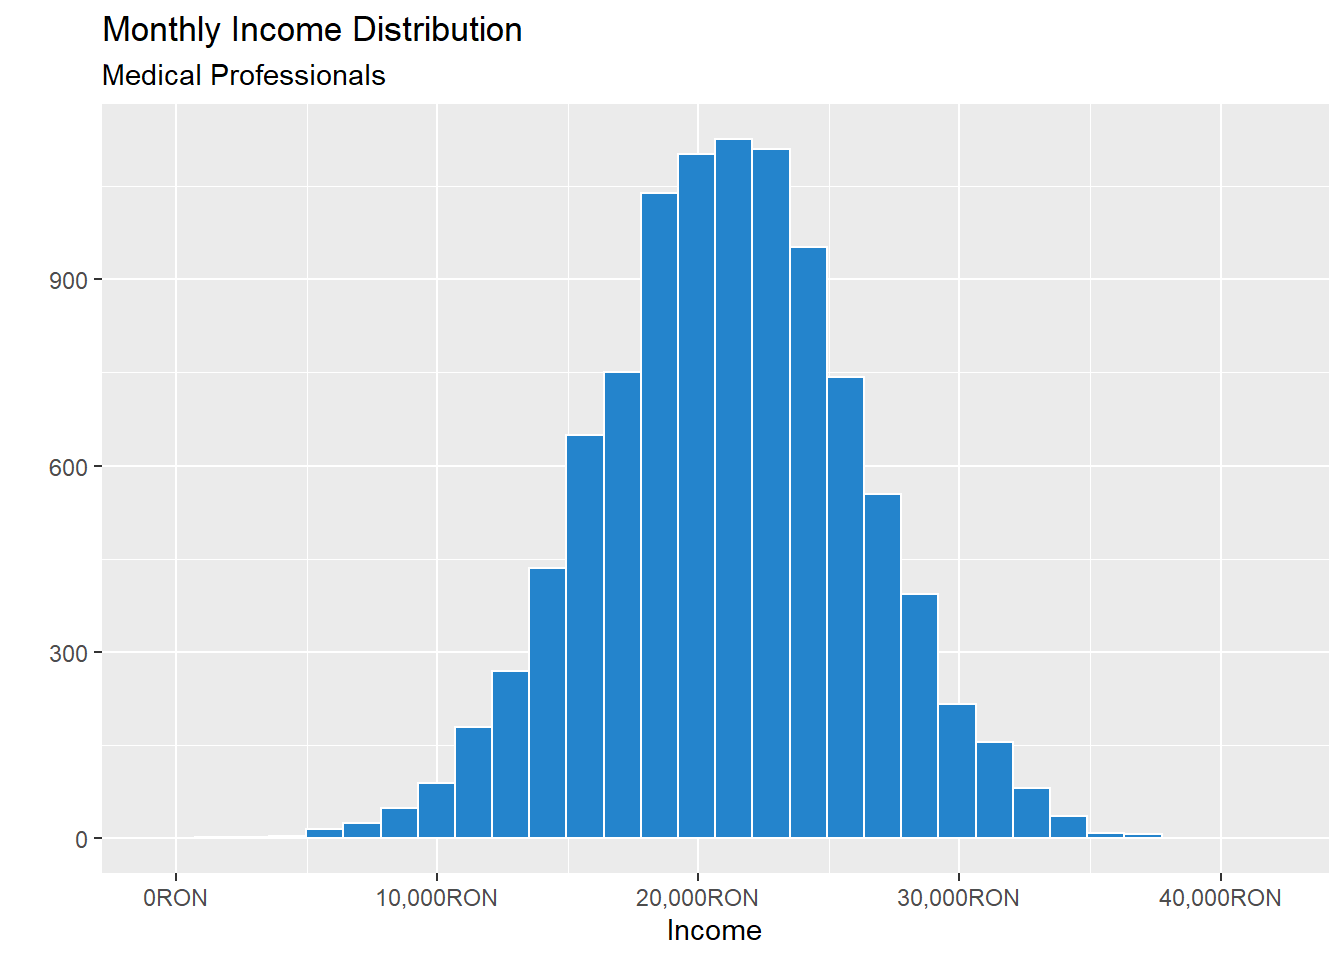
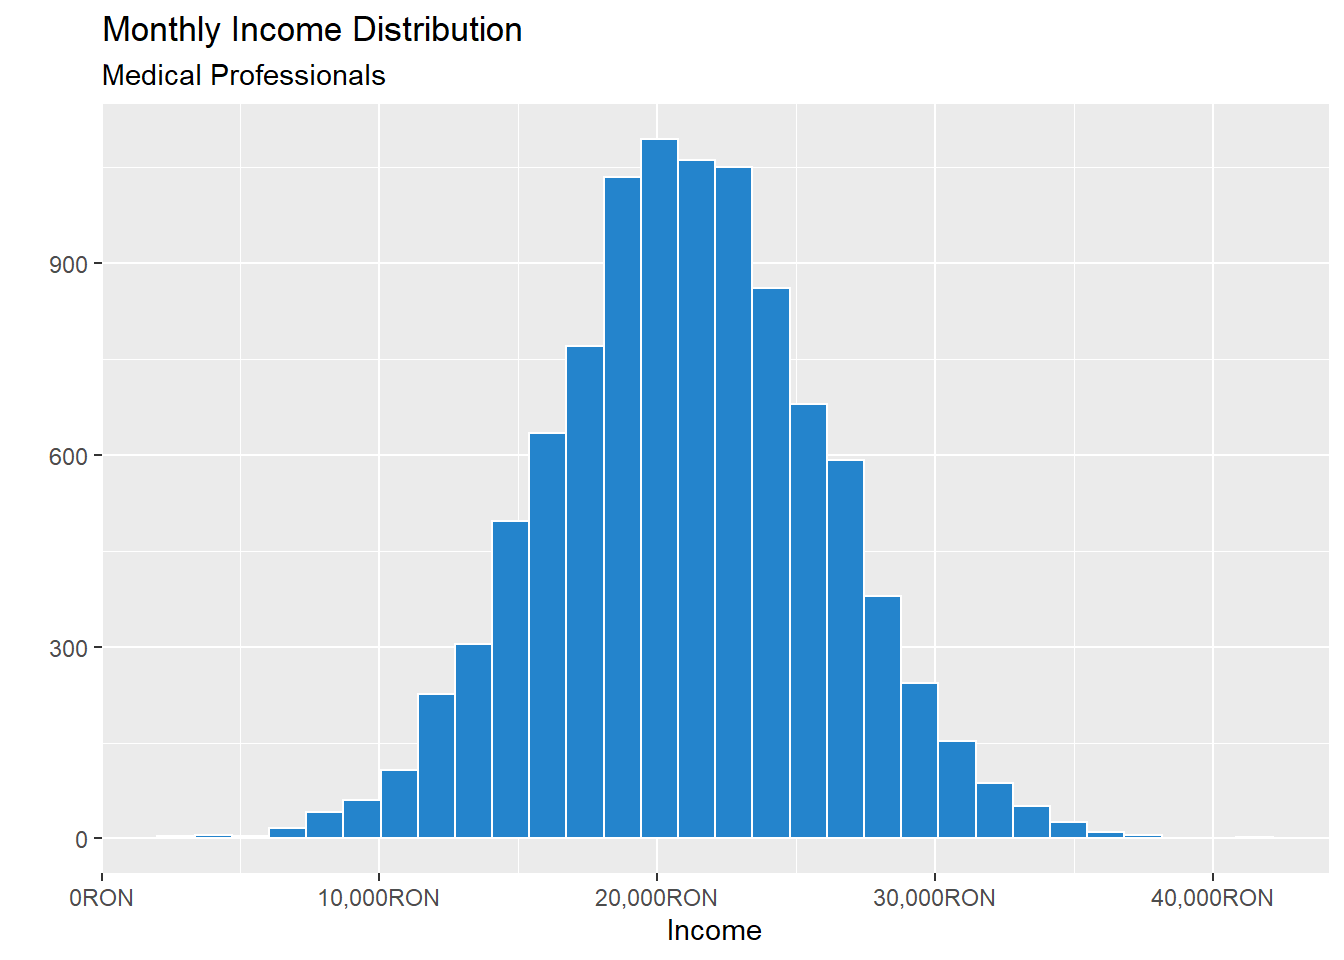
Intermediary version before final review (spellcheck)

diff --git a/content/post/2021-03-18-decision-making-with-uncertainty/index.en.html b/content/post/2021-03-18-decision-making-with-uncertainty/index.en.html
@@ -13,10 +13,15 @@ code_folding: show
 <script src="{{< blogdown/postref >}}index.en_files/header-attrs/header-attrs.js"></script>
 
 
-<p><strong>Insert Lead paragraph here.</strong></p>
+<blockquote>
+<p>We sail within a vast sphere, ever drifting in uncertainty, driven from end to end.</p>
+<footer>
+— Blaise Pascal
+</footer>
+</blockquote>
 <hr />
 <p>People engage in decision making on a daily basis and although most of our decisions seem to derive from logical arguments, the truth is that exactly the opposite is true. Most of the decisions we make are due to <a href="https://en.wikipedia.org/wiki/List_of_cognitive_biases">biases</a> and <a href="https://en.wikipedia.org/wiki/Heuristic">heuristics</a> our minds have developed to respond to the environment around them faster.</p>
-<p>These tendencies have been first described and studied by <a href="https://en.wikipedia.org/wiki/Amos_Tversky">Amos Tversky</a> and <a href="https://scholar.princeton.edu/kahneman/home">Daniel Kahneman</a> and have been explained in Kahneman’s excellent book: <strong>Thinking fast and slow</strong>. I highly recommend the book since it is an excellent guide in where our minds tend to be error prone and mislead us. I will explain in brief however that our minds operate as two separate system called by Kahneman and Tversky <em>system 1</em> and <em>system 2</em>.</p>
+<p>These tendencies have been first described and studied by <a href="https://en.wikipedia.org/wiki/Amos_Tversky">Amos Tversky</a> and <a href="https://scholar.princeton.edu/kahneman/home">Daniel Kahneman</a> and have been explained in Kahneman’s excellent book: <em>Thinking fast and slow</em>. I highly recommend the book since it is an excellent guide in where our minds tend to be error prone and mislead us. I will explain in brief however that our minds operate as two separate system called by Kahneman and Tversky <em>system 1</em> and <em>system 2</em>.</p>
 <p><em>System 1</em> is the default system of the mind, the one used for everyday activities. These activities include walking, breathing, detecting danger and avoiding it, eating, doing routine activities, and all activities that do not involve heavy cognitive effort. <em>System 1</em> is emotional, automatic, fast and uses no extra energy from our energy hungry brains.</p>
 <p><em>System 2</em> is the exact opposite of <em>System 1</em>. It is rational, quite slow, and requires a large amount of energy and effort from our part. <em>System 2</em> allows you to analyse in detail every situation, however this is not always ideal. If a car would come speeding towards you, <em>System 2</em> would analyse the colour of the car, the brand and maybe the speed and approach vector, which is a nice thought exercise but might get hit by the car before <em>System 2</em> would act. <em>System 1</em> will not bother with all those details, it will just register car coming towards me with great speed, I need to move out of the way.</p>
 <p>The problem when making decisions is that there are situations moderated or mediated by the aforementioned biases and heuristics in which <em>System 1</em> might make the decision and our minds might think it is actually <em>System 2</em>. Otherwise said, we might make decisions for subjective reasons and have a high degree of confidence in then believing they are objective.</p>
@@ -65,7 +70,7 @@ code_folding: show
 <li>Amount of beer drunk weekly</li>
 </ol>
 <p>I would go for education level since it is highly unlikely someone has spent 50 years in education. And even if it is so, the impact to 10,000 will be small. The same goes for amount of beer drunk weekly. If there is someone who drinks thousands of beer weekly you might be in trouble, but not as much as they are. I think you would be safe with that bet.</p>
-<p>But what about the amount of cars? Well, here it can get a bit tricky. Most people have one or two cars. But what happens if in the crowd is the Sultan of Brunei with a car collection of 7000 cars? Considering the low age of the crowd, it is possible that he owns more cars that the whole crowd put together. This would not be a problem if you can include him in the sample however a sample of 100 people out of 10,000 give you a chance of 1% to include him in it. This means that most 99 out of 100 times your sample will underestimate the average number of cars owned by the crowd.</p>
+<p>But what about the amount of cars? Well, here it can get a bit tricky. Most people have one or two cars. But what happens if in the crowd is the Sultan of Brunei with a car collection of 7000 cars? Considering the low age of the crowd, it is possible that he owns more cars that the whole crowd put together. This would not be a problem if you can include him in the sample however a sample of 100 people out of 10,000 give you a chance of 1% to include him in it. This means that 99 times out of 100 your sample will underestimate the average number of cars owned by the crowd.</p>
 <p>This is why it is important to try and figure out what kind of distribution has the population to which you are trying to make a decision and adjust your decision making accordingly. In the following section I will describe a problem which would be interesting to solve, what career would be best if I were to choose again, and see how we can take advantage of these distributions.</p>
 </div>
 </div>
@@ -86,7 +91,7 @@ code_folding: show
 <p>As an example, if I were to choose to study medicine, I might have an idea of what kind of doctor I want to be, however that does not guarantee that I will end up in that particular field. I might not like the field once I go into the nifty gritty of it, or I might like another field more once I find out more about it. Since I cannot control that I will try to simulate multiple outcomes and see overall which career is the best taking into account its highs and lows.</p>
 <p><em>E.g.:</em> If I were to choose between being a janitor who just won the lottery and being a doctor, I would chose to be the janitor. However, if I were to chose between the two and live 10,000 I would choose the doctor because the other 9,999 time it is the better outcome.</p>
 <p>How do we do this?</p>
-<p>We will gather data on each of the three career paths we have chosen and we will analyse it to try and figure out which are the main characteristics of the three populations, doctors, IT workers, and poker players. We will try to find out what is the average salary, how much does it usually vary from there, and if there is a tendency of most salaries to e over or under that average. Once we have all this information, we will extract a sample of that data of 10,000 randomly chosen salaries.</p>
+<p>We will gather data on each of the three career paths we have chosen and we will analyse it to try and figure out which are the main characteristics of the three populations, doctors, IT workers, and poker players. We will try to find out what is the average salary, how much does it usually vary from there, and if there is a tendency of most salaries to be over or under that average. Once we have all this information, we will extract a sample of that data of 10,000 randomly chosen salaries.</p>
 <p>The salary information will be from the Romanian job market since I am based in Romania.</p>
 <div id="coding-examples" class="section level2">
 <h2>Coding examples</h2>
@@ -101,11 +106,10 @@ it_sal_med_high &lt;- 225000 # Median Salary for Managers and Directors in IT
 it_sal_med_low  &lt;- 92809  # Median Salary for the everyone else working in IT </code></pre>
 <p>The salaries are encoded in here not later when we are analysing the careers themselves because it is a good practice to keep the variables in one place and the same goes for custom function. I will add some in here as well. This functions just store some lines of code that we will need to repeat over and over again and it is good coding practice to store such lines of code in one function so you can avoid having too many lines of code. Also, if we want to change something at a later date, we just need to adjust everything in one place.</p>
 <pre class="r"><code># Graphical function to avoid writing the same lines over and over
-histogram &lt;- function(.df){
+histogram &lt;- function(.df, .var = Income){
   
   .df %&gt;% 
-    tibble() %&gt;% 
-    ggplot(aes(.)) +
+    ggplot(aes({{.var}})) +
     geom_histogram(colour = &quot;white&quot;, fill = &quot;#2484cc&quot;) +
     labs(x = &quot;Income&quot;, y = &quot;&quot;) +
     scale_x_continuous(labels = label_dollar(prefix = &quot;€&quot;))
@@ -142,7 +146,7 @@ ron_format &lt;- function(.x){
 <p>With this said, let’s create our sample and take a look at it.</p>
 <pre class="r"><code>dr_sal_dist &lt;- rnorm(10000, dr_sal_mean, sd = 5000)
 
-dr_sal_dist %&gt;% 
+tibble(Income = dr_sal_dist) %&gt;% # transforms the list in a table for the graph
     histogram() +
     labs(title = &quot;Monthly Income Distribution&quot;,
          subtitle = &quot;Medical Professionals&quot;) + 
@@ -157,7 +161,7 @@ dr_sal_dist %&gt;%
 </ol>
 <p>The Romanian government imposes taxes on the on the employee as follows:</p>
 <ul>
-<li>Retirement Tax: 25%</li>
+<li>Social Security: 25%</li>
 <li>Health Insurance: 10%</li>
 <li>Income tax on the remainder of 65% of the Gross salary: 10%</li>
 </ul>
@@ -193,7 +197,7 @@ dr_sal_final &lt;- dr_sal_final * admittance_rate
 
 # Just to be sure, I would like to see the rate
 print(sum(admittance_rate) / 10000)</code></pre>
-<pre><code>#&gt; [1] 0.4525</code></pre>
+<pre><code>#&gt; [1] 0.4552</code></pre>
 <p>I will take a look at the numbers in the analysis part, this is just the preparation of the data. Now, let’s see if we can estimate how much does an IT professional earn.</p>
 </div>
 <div id="the-it-crowd" class="section level2">
@@ -218,9 +222,9 @@ it_sal_dist &lt;- c(it_sal_low, it_sal_high)
 
 # The average of my salary distribution should be similar to that on the website
 mean(it_sal_dist)</code></pre>
-<pre><code>#&gt; [1] 112842.7</code></pre>
+<pre><code>#&gt; [1] 112325.3</code></pre>
 <p>From what I can see the distribution I have created has the same average salary as the population on the website so I can safely assume that the distribution I have created more or less resembles the population I want to recreate. The distribution looks like this:</p>
-<pre class="r"><code>it_sal_dist %&gt;% 
+<pre class="r"><code>tibble(Income = it_sal_dist) %&gt;% 
   histogram() +
   labs(title = &quot;Yearly Income Distribution&quot;,
        subtitle = &quot;IT Workers&quot;) + 
@@ -290,12 +294,11 @@ it_sal_dist_net_eur &lt;- it_sal_dist_net / 5</code></pre>
 elt_player &lt;- rnorm(1000, 4000, 1000)
 
 poker_players &lt;- c(avg_player, elt_player)</code></pre>
-<pre class="r"><code>poker_players %&gt;% 
+<pre class="r"><code>tibble(Income = poker_players) %&gt;% 
   histogram() +
   labs(title = &quot;Monthly Income Distribution&quot;,
        subtitle = &quot;Professional Poker Players&quot;)</code></pre>
-<pre><code>#&gt; `stat_bin()` using `bins = 30`. Pick better value with `binwidth`.</code></pre>
-<p><img src="{{< blogdown/postref >}}index.en_files/figure-html/unnamed-chunk-3-1.png" width="100%" /></p>
+<p><img src="{{< blogdown/postref >}}index.en_files/figure-html/poker_player_distribution-1.png" width="100%" /></p>
 <p>The distribution seems OK from what was described in my source. Now, for the final touch, I just need two more steps:</p>
 <ol style="list-style-type: decimal">
 <li>Transform the data in lifelong earnings</li>
@@ -316,11 +319,177 @@ poker_players_final &lt;- poker_players * success_prob
 
 # Just to be sure, I would like to see the rate
 print(sum(success_prob) / 10000)</code></pre>
-<pre><code>#&gt; [1] 0.098</code></pre>
-<p>9.80% is exactly what it is to be expected.</p>
+<pre><code>#&gt; [1] 0.0973</code></pre>
+<p>Looks good, 9.73% is exactly what it is to be expected.</p>
 <p>All I need right now is to analyse the data and see which career path is better for me.</p>
 </div>
 </div>
 <div id="data-analysis" class="section level1">
 <h1>Data Analysis</h1>
+<p>The first part of any data analysis is tidying the data up. At the moment I have three separate lists and they are not very useful so I will merge them in one table. The easiest way to do this is to create three separate data frames and combine them in one. The code below will do this and them I can start analysing the data.</p>
+<pre class="r"><code>df_dr &lt;- tibble(Career = &quot;Doctor&quot;,
+                Income = dr_sal_final)
+
+df_it &lt;- tibble(Career = &quot;IT Worker&quot;,
+                Income = it_sal_dist_net_eur)
+
+df_pp &lt;- tibble(Career = &quot;Poker Player&quot;,
+                Income = poker_players_final)
+
+df &lt;- rbind(df_dr, df_it, df_pp)
+
+# it is always a good idea to eliminate from memory intermediary datasets
+rm(df_dr, df_it, df_pp)</code></pre>
+<p>Now that the data is in one place I can proceed with the data analysis.</p>
+<p>The first step for that is to check all the distributions and see if they look anything alike one another.</p>
+<pre class="r"><code>df %&gt;% 
+  histogram() +
+  facet_wrap(~ Career, ncol = 1) +
+  labs(title = &quot;Lifelong Income&quot;,
+       subtitle = &quot;ALL Careers&quot;)</code></pre>
+<pre><code>#&gt; `stat_bin()` using `bins = 30`. Pick better value with `binwidth`.</code></pre>
+<p><img src="{{< blogdown/postref >}}index.en_files/figure-html/unnamed-chunk-4-1.png" width="100%" />
+There seems to be quite a difference between the three.</p>
+<p>The IT workers seem to have more salaries around €500,000 as lifelong income, a bit smaller that the doctors’. However, they are the only ones that have a 100% success rate in actually being able to earn from this career.</p>
+<p>I can also see that the doctors, the ones who made it pass the culling, have quite a normally distributed salary range and from what I can see, which is a good thing as it shows that we can extract some conclusions from the data. It is very tempting to follow this career path as it can have high rewards although the initial admission rate makes me a bit cautious.</p>
+<p>The last group that I can see is the poker players. They do not seem to have any clustering, only some small ones around €750,000 and otherwise are quite equally distributed. It’s hard to say when they are as few as they are to begin with. Let’s check them without the 90% that did not make it.</p>
+<pre class="r"><code>df %&gt;% 
+  filter(Income != 0, Career == &quot;Poker Player&quot;) %&gt;% 
+  histogram() +
+  labs(title = &quot;Lifelong Income&quot;,
+       subtitle = &quot;Poker Players&quot;)</code></pre>
+<p><img src="{{< blogdown/postref >}}index.en_files/figure-html/poker_players_final_graph-1.png" width="100%" /></p>
+<p>It is quite clear from the data that this job is quite well paid, most of the ones that made it as a professional player earn around €750K over their professional careers, so that makes them 50% better paid than most IT professionals, and the whales have it better than the doctors, over €3M. The problem with this is even more obvious then it is for the doctors, out of 10,000 only about 10% make it up to here. In my IT sample I have 1586 people who earn over €750K which is more than all the poker players that made it as a professional.</p>
+<p>Now, before I dive too deep in these type of discussions I must remember my basic premise, which is the career path that give me the highest income across 10,000 lives and is the least exposed to luck in getting there. With that said I would like to check the numbers.</p>
+<pre class="r"><code># The data as it is now is not useful, I will rearrange it a bit to be better summarised
+# This will help later on as well so I will store it in a separate data frame
+df_wide &lt;- df %&gt;% 
+  group_by(Career) %&gt;% 
+  mutate(ID = row_number()) %&gt;% 
+  ungroup() %&gt;% 
+  pivot_wider(names_from = Career, values_from = Income) %&gt;% 
+  select(-ID) 
+
+# And a summary of the data
+df_wide %&gt;% 
+  summary() %&gt;%   
+  kable(format = &quot;html&quot;)</code></pre>
+<table>
+<thead>
+<tr>
+<th style="text-align:left;">
+</th>
+<th style="text-align:left;">
+Doctor
+</th>
+<th style="text-align:left;">
+IT Worker
+</th>
+<th style="text-align:left;">
+Poker Player
+</th>
+</tr>
+</thead>
+<tbody>
+<tr>
+<td style="text-align:left;">
+</td>
+<td style="text-align:left;">
+Min. : 0
+</td>
+<td style="text-align:left;">
+Min. : -46923
+</td>
+<td style="text-align:left;">
+Min. : 0
+</td>
+</tr>
+<tr>
+<td style="text-align:left;">
+</td>
+<td style="text-align:left;">
+1st Qu.: 0
+</td>
+<td style="text-align:left;">
+1st Qu.: 410301
+</td>
+<td style="text-align:left;">
+1st Qu.: 0
+</td>
+</tr>
+<tr>
+<td style="text-align:left;">
+</td>
+<td style="text-align:left;">
+Median : 0
+</td>
+<td style="text-align:left;">
+Median : 509921
+</td>
+<td style="text-align:left;">
+Median : 0
+</td>
+</tr>
+<tr>
+<td style="text-align:left;">
+</td>
+<td style="text-align:left;">
+Mean : 524341
+</td>
+<td style="text-align:left;">
+Mean : 584092
+</td>
+<td style="text-align:left;">
+Mean : 89926
+</td>
+</tr>
+<tr>
+<td style="text-align:left;">
+</td>
+<td style="text-align:left;">
+3rd Qu.:1112234
+</td>
+<td style="text-align:left;">
+3rd Qu.: 630953
+</td>
+<td style="text-align:left;">
+3rd Qu.: 0
+</td>
+</tr>
+<tr>
+<td style="text-align:left;">
+</td>
+<td style="text-align:left;">
+Max. :2276445
+</td>
+<td style="text-align:left;">
+Max. :1916375
+</td>
+<td style="text-align:left;">
+Max. :3763895
+</td>
+</tr>
+</tbody>
+</table>
+<p>So, this is plain as day, with a lifelong average of €584,092 the IT crew wins the contest. This is because although the individual salaries for the doctors tend to be higher that the ones for IT, quite a few people did not make it as a doctor and their earnings from this field, €0 in this case, move the average down to €524,341.</p>
+<p>It is interesting that the Poker players have the highest earners with €3,763,895 however the average income of €89,925.99 is not very appealing to me.</p>
+<p>The last thing I would like to test is that indeed there is a significant difference between these careers. It does not matter as much in this context since based on these data I would choose to follow a career in IT. Since it is the most accessible my consequences in choosing this career are not high. However, if the situation would have been less clear cut I might want to make sure that it matters if I choose one career over another.</p>
+<p>This can be done with an <a href="https://en.wikipedia.org/wiki/Analysis_of_variance#:~:text=Analysis%20of%20variance%20(ANOVA)%20is,by%20the%20statistician%20Ronald%20Fisher.">Analysis Of Variance (ANOVA)</a>. I’m not going to go into details about this, I will just mention that ANOVA is a way of comparing three or more groups and checking if the differences between them are significant or not. This is not exactly true but the subject is outside the scope of this article and this explanation is a useful way of remembering it.</p>
+<pre class="r"><code>anova_results &lt;- aov(`IT Worker` ~ `Doctor` + `Poker Player`, data = df_wide)
+
+summary(anova_results)</code></pre>
+<pre><code>#&gt;                  Df    Sum Sq   Mean Sq F value Pr(&gt;F)    
+#&gt; Doctor            1 3.529e+11 3.529e+11   4.241 0.0395 *  
+#&gt; `Poker Player`    1 8.052e+12 8.052e+12  96.768 &lt;2e-16 ***
+#&gt; Residuals      9997 8.319e+14 8.321e+10                   
+#&gt; ---
+#&gt; Signif. codes:  0 &#39;***&#39; 0.001 &#39;**&#39; 0.01 &#39;*&#39; 0.05 &#39;.&#39; 0.1 &#39; &#39; 1</code></pre>
+<p>So, this looks interesting. From what this shows me, there is a very significant difference between IT and poker player, which is to be expected. I can tell this by the Pr(&gt;F) value, the smaller it is the less chance that the two groups are the same distribution.</p>
+<p>The problem is that the difference between IT and doctor is not significant. This is understandable somehow as both careers have quite similar incomes and a somewhat similar distribution. The doctors have a bell curve while the IT crowd has two, one for the bosses one for the rest of the people. This is why the analysis resulted in no significant changes between the two choices. This would have mattered if I would have decided against the odds to go for a medical career as it would have let me choose the easier path with no significant consequences. This way I am even more satisfied by my decision.</p>
+</div>
+<div id="conclusion" class="section level1">
+<h1>Conclusion</h1>
+<p>As I hope I have showed here, decisions in the real world are not as easy to make as they are in a classroom where things tend to be clean cut. This can get very frustrating and that is not always a bad thing. Frustration is a good motivator to help one persist in ones pursuit of understanding and resolving a problem. With patience and perseverance most things can be overcome.</p>
+<p>What I hope I have showed here is how you can make decisions with imperfect data by focusing on a few key variables for which you can control. Once you have this is easy to create a simulations of random outcomes within this outcome so you can analyse the data. As mentioned earlier in this article, the preferred approach is to simulate multiple scenarios to account for blind luck. You can win the lottery and be better off that any doctor or IT worker or Poker player but you cannot count on that.</p>
+<p>Let me know what you think of this article and if you agree with it.</p>
 </div>
